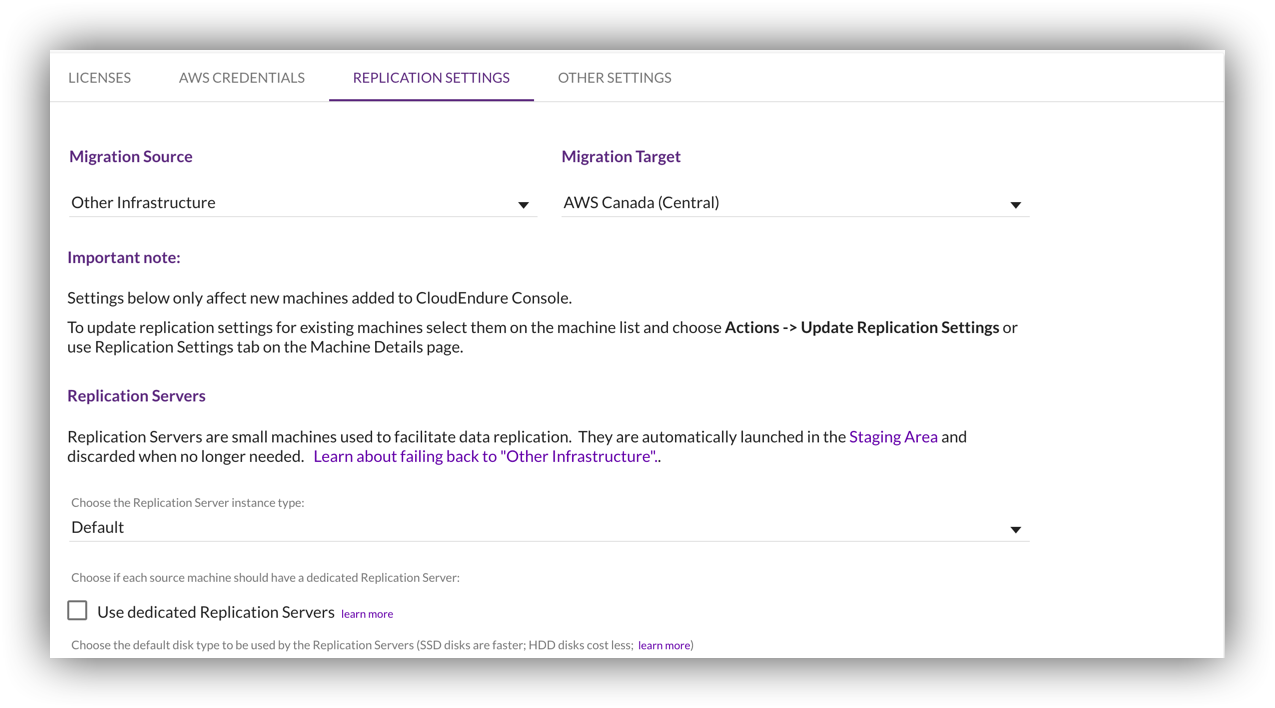
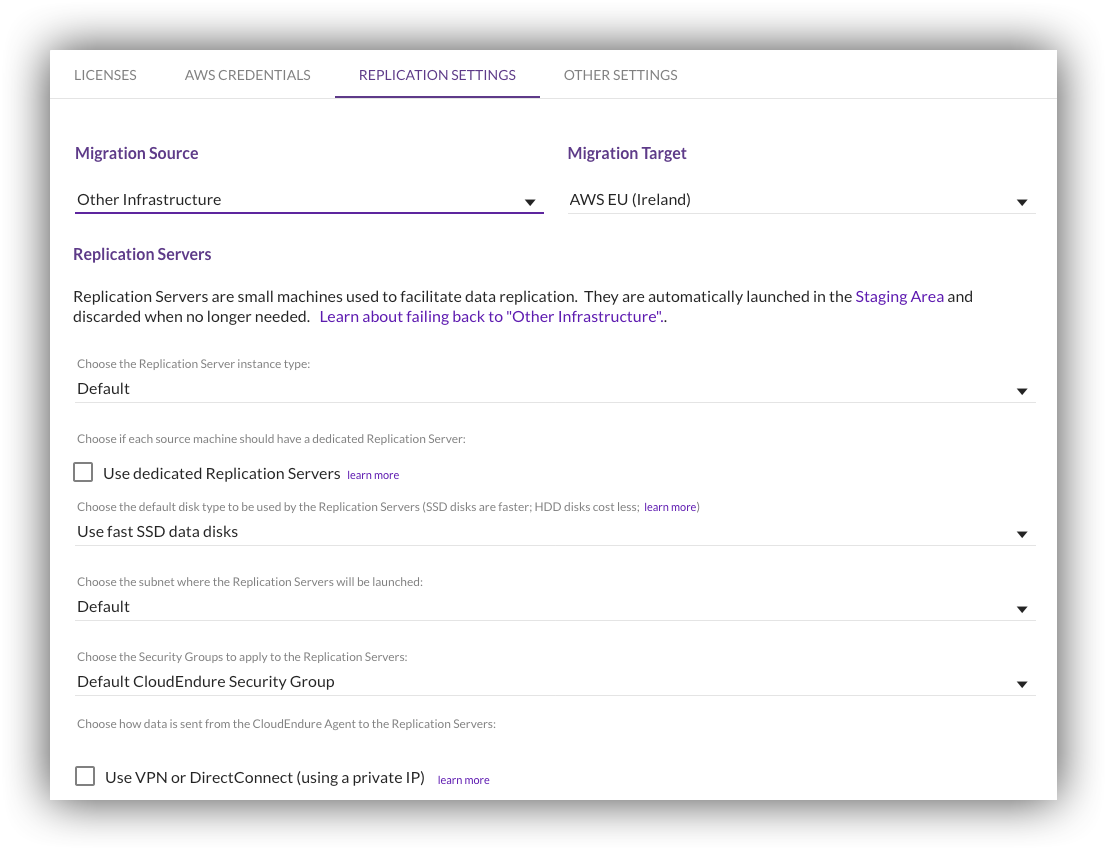
updates to rehost lab to change region, update to index2019 page

Changed region(s): [[0.0307, 0.0621, 0.9828, 0.9633], [0.5221, 0.1554, 0.6143, 0.1864]]

diff --git a/docs/reinvent2019/win306/rehostlab.md b/docs/reinvent2019/win306/rehostlab.md
@@ -343,7 +343,7 @@ After creating an AWS policy which is based on CloudEndure's pre-defined policy,
 
 ![](/assets/images/WIN306/EnterUserInfo.png)
 
-2. After entering your AWS credentials in the CloudEndure User Console, navigate to **Setup & Info > REPLICATION SETTINGS.** You will need to define your **Source** and **Target** infrastructures and regions (in this case AWS Canada). More information about replication settings can be found in the CloudEndure [documentation](https://docs.cloudendure.com/Content/Defining_Your_Replication_Settings/Defining_Replication_Settings_for_AWS/Defining_Replication_Settings_for_AWS.htm)
+2. After entering your AWS credentials in the CloudEndure User Console, navigate to **Setup & Info > REPLICATION SETTINGS.** You will need to define your **Source** (Other Infrastructure) and **Target** infrastructures and regions (in this case AWS EU(Ireland)). More information about replication settings can be found in the CloudEndure [documentation](https://docs.cloudendure.com/Content/Defining_Your_Replication_Settings/Defining_Replication_Settings_for_AWS/Defining_Replication_Settings_for_AWS.htm)
 
 ![](/assets/images/WIN306/SourceTargetReplicationSettings.png)
 
@@ -368,6 +368,8 @@ After creating an AWS policy which is based on CloudEndure's pre-defined policy,
 AWS Systems Manager (SSM) has many [capabilities](https://docs.aws.amazon.com/systems-manager/latest/userguide/features.html) but this lab will focus on one capability:
 
 * **Run Command** - remotely and securely manage the configuration of your managed instances at scale. Use Run Command to perform on-demand changes like updating applications or running Linux shell scripts and Windows PowerShell commands on a target set of dozens or hundreds of instances. Run Command uses Command Documents. 
+
+**NOTE** In order to use AWS Systems Manager (SSM) you need to have the SSM Agent installed on the machined you want to manage. You also need to have a IAM Role attached to the machine to allow the agent to communicate to the AWS Systems Manager API. In this lab this has been taken care of you, please note the roles created in the CloudFormation Templates used to build out this lab. 
 
 4. Click on **AWS Systems Manager** under **Management & Governance** to go to the Systems Manager Console.
 

diff --git a/docs/reinvent2019/index2019.md b/docs/reinvent2019/index2019.md
@@ -56,7 +56,7 @@
                 </td>
             </tr>
             <tr>
-                <td align="left"><a class="table" href="https://awsentworkshops.com/reinvent2019/win306/index/"><strong>Migrate Microsoft workloads to AWS</strong></a></td>
+                <td align="left"><a class="table" href="https://awsentworkshops.com/reinvent2019/win306/win306/"><strong>Migrate Microsoft workloads to AWS</strong></a></td>
                 <td align="left">Migrating your Microsoft workloads to the AWS Cloud will increase your competitive edge, drive business value, and modernize your infrastructure. This workshop facilitates your understanding of strategies that help with the preparation and execution steps required for migrating Microsoft workloads to the AWS Cloud. Please bring a laptop (and charger) for the hands-on exercises.
                     <ul>
                         <li><strong>Level</strong>: Intermediate</li>
